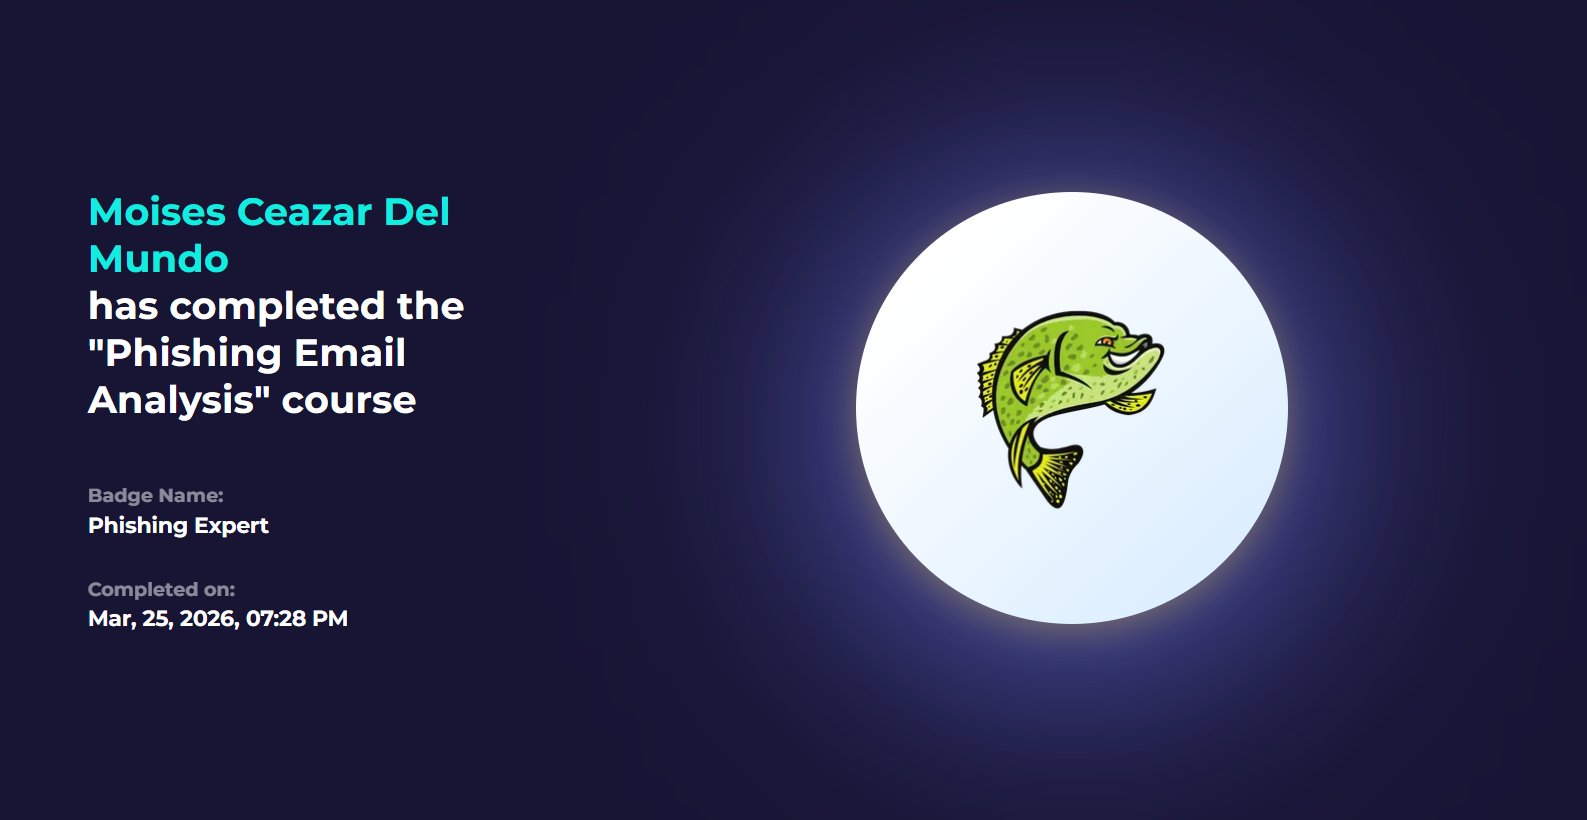
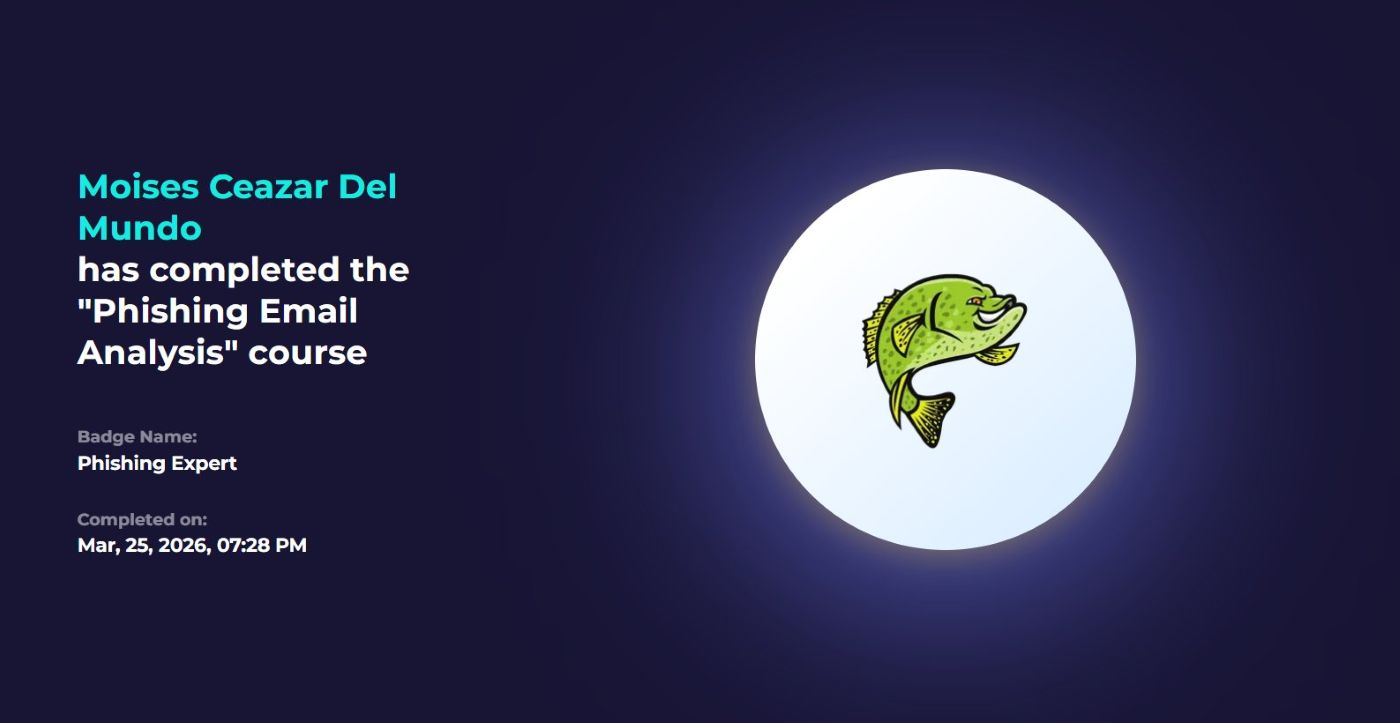
Compress images (7.3 MB -> 4.4 MB): max 1400px, JPEG q80; two PNG certificates converted to JPG

diff --git a/index.html b/index.html
@@ -1048,16 +1048,16 @@ a:focus-visible,button:focus-visible,[role="button"]:focus-visible{outline:2px s
             <div class="cert-foot"><span class="cert-yr">Feb 2026</span><span class="cert-act"><svg width="12" height="12" viewBox="0 0 24 24" fill="none" stroke="currentColor" stroke-width="1.8" stroke-linecap="round" stroke-linejoin="round" ><circle cx="11" cy="11" r="8"/><line x1="21" y1="21" x2="16.65" y2="16.65"/></svg> View</span></div>
           </div>
         </div>
-        <div class="cert-card rev d2" onclick="openModal('Cisco — Introduction to Cybersecurity','images/cisco-introduction-to-cybersecurity.png',false)">
-          <img class="cert-preview" loading="lazy" decoding="async" src="images/cisco-introduction-to-cybersecurity.png" alt="Cisco"/>
+        <div class="cert-card rev d2" onclick="openModal('Cisco — Introduction to Cybersecurity','images/cisco-introduction-to-cybersecurity.jpg',false)">
+          <img class="cert-preview" loading="lazy" decoding="async" src="images/cisco-introduction-to-cybersecurity.jpg" alt="Cisco"/>
           <div class="cert-body">
             <div class="cert-issuer-row"><span class="cid" style="background:#06B6D4;"></span><span class="cin">Cisco Networking Academy</span></div>
             <div class="cert-name">Introduction to Cybersecurity</div>
             <div class="cert-foot"><span class="cert-yr">Sep 2025</span><span class="cert-act"><svg width="12" height="12" viewBox="0 0 24 24" fill="none" stroke="currentColor" stroke-width="1.8" stroke-linecap="round" stroke-linejoin="round" ><circle cx="11" cy="11" r="8"/><line x1="21" y1="21" x2="16.65" y2="16.65"/></svg> View</span></div>
           </div>
         </div>
-      <div class="cert-card rev" onclick="openModal('Google — Tools of the Trade: Linux and SQL','images/google-tools-of-the-trade-linux-and-sql.png',false)">
-        <img class="cert-preview" loading="lazy" decoding="async" src="images/google-tools-of-the-trade-linux-and-sql.png" alt="Linux and SQL"/>
+      <div class="cert-card rev" onclick="openModal('Google — Tools of the Trade: Linux and SQL','images/google-tools-of-the-trade-linux-and-sql.jpg',false)">
+        <img class="cert-preview" loading="lazy" decoding="async" src="images/google-tools-of-the-trade-linux-and-sql.jpg" alt="Linux and SQL"/>
         <div class="cert-body">
           <div class="cert-issuer-row"><span class="cid" style="background:#3B82F6;"></span><span class="cin">Google / Coursera</span></div>
           <div class="cert-name">Tools of the Trade: Linux and SQL</div>
